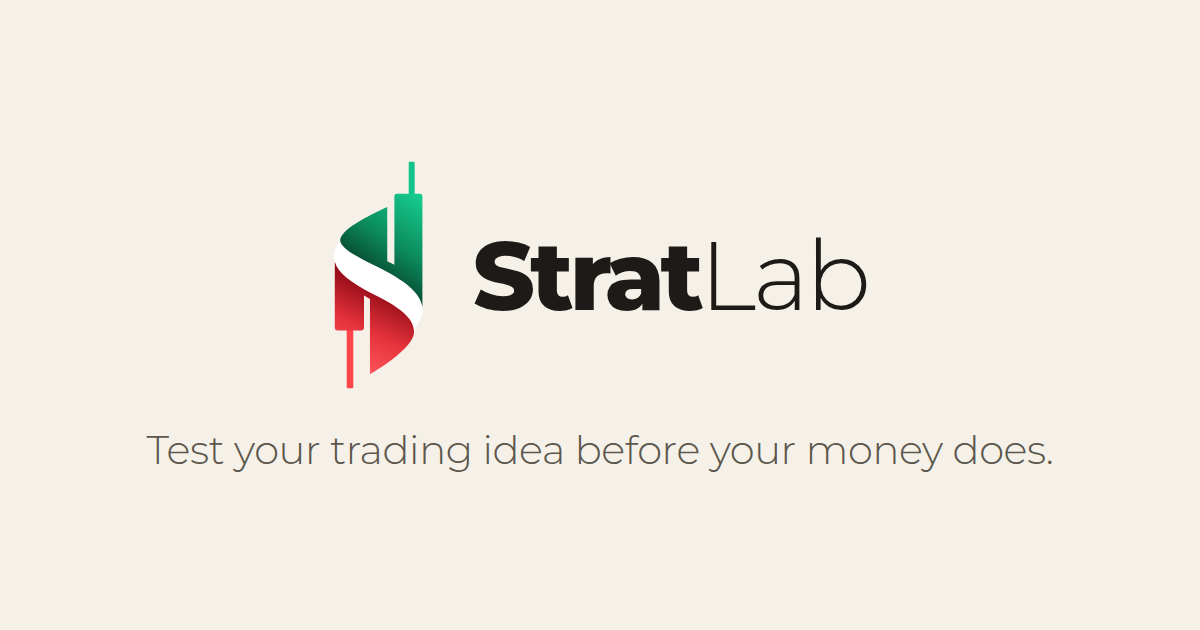
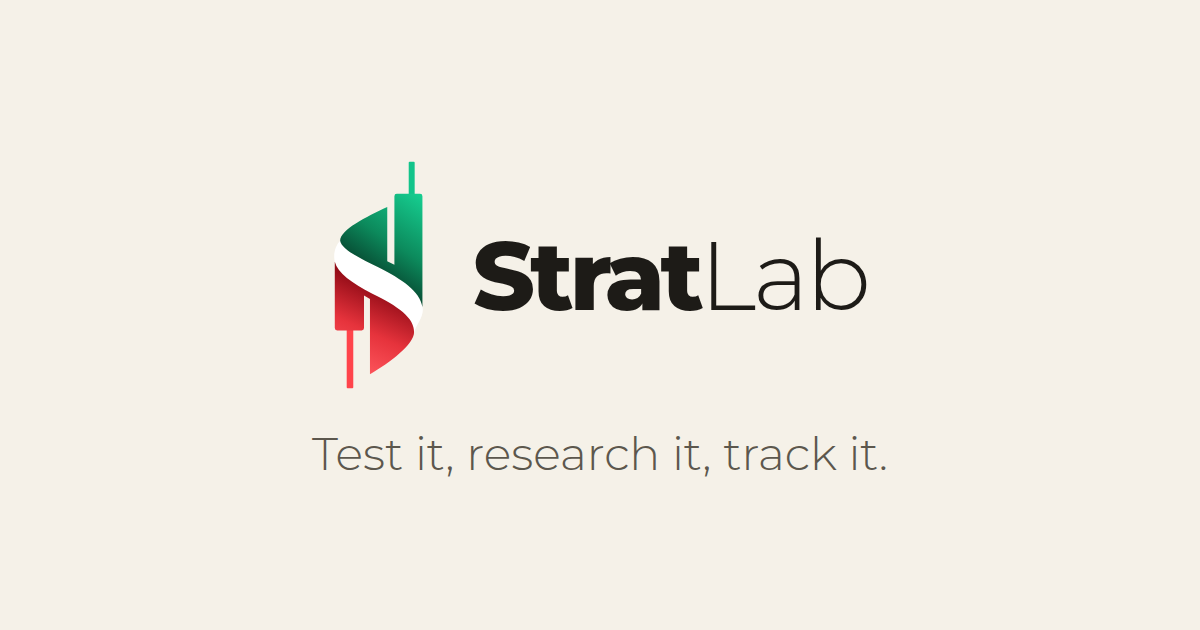
Config without notes, plans label, OG image tagline, tests for the visitor pages
Claude-Session: https://claude.ai/code/session_01QCGeNSveSSmNFs12Q4F29N

Changed region(s): [[0.1233, 0.6937, 0.8633, 0.754]]

diff --git a/stratlab/frontend/src/pages/PlansPage.tsx b/stratlab/frontend/src/pages/PlansPage.tsx
@@ -10,7 +10,7 @@ import { PromoCountdown } from "../components/PromoCountdown";
 import { PlanInterestButton } from "../components/PlanInterest";
 import { track } from "../lib/analytics";
 import { EVERYONE, FEATURES, FLAGS, LIMITS, NUMBERS, PRICE, WHO, type Limits, type PlanId } from "../lib/plans";
-import { canBuy, finePrint, pricingIntro } from "../lib/offer";
+import { canBuy, finePrint, pricingIntro, YEARLY_LABEL, yearlySaving } from "../lib/offer";
 
 /** Every limit and feature side by side, from the server's plans when signed in. */
 function Compare({ plans }: { plans?: Record<string, Partial<Limits>> }) {
@@ -72,6 +72,14 @@ export function PlansPage() {
     // the admin table's price ($8 and $20 for dollars); "Charged as ₹…" under it while that currency is charged in rupees
     return { shown: money(row, local, currency), charged: chargedIn === "INR" ? money(inr, rupees(p, per), "INR") : null, inr: false };
   };
+  /** What a year saves against twelve months, in the price's own currency (Pro's year is ₹9 over ten months, so each card says its own number). */
+  const savingOf = (p: "basic" | "pro") => {
+    const foreign = !!row && currency !== "INR";
+    const month = foreign ? (row as unknown as Record<string, number>)[p] : rupees(p, "month");
+    const year = foreign ? (row as unknown as Record<string, number>)[`${p}_year`] : rupees(p, "year");
+    const save = yearlySaving(month, year);
+    return save == null ? null : money(foreign ? row : inr, save, foreign ? currency : "INR");
+  };
   const anyRupees = currency !== "INR" && !!row && (period === "year" ? row.yearly_charged_in : row.charged_in) === "INR";
 
   const subscribe = async (plan: "basic" | "pro") => {
@@ -122,7 +130,7 @@ export function PlansPage() {
           {billing && yearlyOk && (
             <FieldGroup label="Billed">
               <Seg label="Billing period" value={yearly ? "year" : "month"} onChange={(v) => setYearly(v === "year")}
-                options={[{ value: "month", label: "Monthly" }, { value: "year", label: "Yearly · 2 months free" }]} />
+                options={[{ value: "month", label: "Monthly" }, { value: "year", label: YEARLY_LABEL }]} />
             </FieldGroup>
           )}
         </FormGrid>
@@ -141,6 +149,7 @@ export function PlansPage() {
               <div className="k-stack tight">
                 <div className="k-plan-price">{price.shown}<span> / {period}</span></div>
                 {price.inr && <span className="k-note">incl. GST</span>}
+                {period === "year" && p !== "free" && savingOf(p) && <span className="k-note">Saves {savingOf(p)} a year against paying monthly</span>}
                 {price.charged && <span className="k-note">{billing ? `Charged as ${price.charged} incl. GST / ${period}` : `${price.charged} a ${period} in India, incl. GST`}</span>}
               </div>
               <ul className="k-plan-list">

diff --git a/stratlab/frontend/public/config.js b/stratlab/frontend/public/config.js
@@ -1,17 +1,11 @@
-// The anon/publishable key is safe to expose; never put the service_role key here.
 window.STRATLAB_CONFIG = {
   API_BASE: "https://stratlab-production-ca25.up.railway.app",
   SUPABASE_URL: "https://enxrxhikzzfualjzqibf.supabase.co",
-  // SENTRY_DSN: "https://…@….ingest.sentry.io/…",   // optional: browser error alerts
   SUPABASE_ANON_KEY: "sb_publishable_31v3Fc59LUCl_aMZpyulbA_SXtDV4cs",
-  // Usage analytics (optional): PostHog's "Project API key" (phc_…, public by design). Off while empty: nothing loads.
-  // The project is on PostHog's US cloud; the CSP in vercel.json allows that host.
   POSTHOG_KEY: "phc_yjniCAedaF52gysc4635oJtJk6BVSbLASMqVUqjUrMCH",
   POSTHOG_HOST: "https://us.i.posthog.com",
-  // Shown on the Terms, Privacy, Refunds and Contact pages (Razorpay checks these before going live).
-  // Add BUSINESS_ADDRESS: "Street, City, State PIN, India" if you want an address listed.
   BUSINESS_NAME: "StratLab",
-  CONTACT_EMAIL: "support@stratlab.studio",   // contact and help
-  BILLING_EMAIL: "billing@stratlab.studio",   // payments, invoices and refunds
-  PRIVACY_EMAIL: "privacy@stratlab.studio",   // privacy requests and grievances (DPDP Act)
+  CONTACT_EMAIL: "support@stratlab.studio",
+  BILLING_EMAIL: "billing@stratlab.studio",
+  PRIVACY_EMAIL: "privacy@stratlab.studio",
 };

diff --git a/stratlab/frontend/src/components/Research.tsx b/stratlab/frontend/src/components/Research.tsx
@@ -447,8 +447,8 @@ export function AIRead({ region, symbol, onTest }: { region: Region; symbol: str
               {r.ideas.length > 0 && (
                 <div className="k-inset">
                   <div className="k-stack">
-                    <b className="k-sub">Ideas to test on {symbol}</b>
-                    <span className="k-small k-muted">Pick one and StratLab will test it on years of real prices, after costs.</span>
+                    <b className="k-sub">Rule templates to test on {symbol}</b>
+                    <span className="k-small k-muted">Each is a test setup, not a suggestion. Pick one and StratLab shows how it would have done on years of real prices, after costs.</span>
                   </div>
                   <div className="inv-ideas">
                     {r.ideas.map((i) => (

diff --git a/stratlab/frontend/src/pages/Login.tsx b/stratlab/frontend/src/pages/Login.tsx
@@ -9,6 +9,7 @@ import { FAQ } from "../content/faq";
 import { Google } from "../components/Icons";
 import { LegalLinks } from "../components/LegalLinks";
 import { Logo } from "../components/Logo";
+import { SkipLink } from "../components/SkipLink";
 import { Seg } from "../components/kit/Seg";
 import { Dialog } from "../components/kit/Dialog";
 import { publicGet } from "../lib/http";
@@ -223,7 +224,7 @@ export function Login({ section = null, panel }: { section?: string | null; pane
 
   return (
     <div className="lp">
-      <a className="skip-link" href="#main">Skip to main content</a>
+      <SkipLink />
       <header className="lp-nav">
         <a href="#top" className="brand" aria-label="StratLab home"><Logo size={46} /></a>
         <nav aria-label="Sections">

diff --git a/stratlab/frontend/src/styles.css b/stratlab/frontend/src/styles.css
@@ -1881,9 +1881,6 @@ a.k-health-i:focus-visible { outline: 2px solid var(--blue); outline-offset: 2px
 .k-card[tabindex="-1"]:focus { outline: none; }
 
 /* ---------- round 5 (a visitor's review): skip link, the landing's demo, plans while they load, phone menu ---------- */
-.skip-link { position: absolute; left: var(--s2); top: -120px; z-index: 100; padding: var(--s2) var(--s4); border-radius: var(--r-ctl); background: var(--ink); color: var(--on-ink);
-  font-weight: 600; text-decoration: none; }
-.skip-link:focus { top: var(--s2); }
 #main:focus { outline: none; }
 .legal-head { position: relative; }
 

diff --git a/stratlab/frontend/src/components/SkipLink.tsx b/stratlab/frontend/src/components/SkipLink.tsx
@@ -1,6 +1,6 @@
 /** The first stop for the keyboard: jumps past the header to the page's `main` (give it id="main"). Only visible when focused. */
 export function SkipLink({ to = "main" }: { to?: string }) {
-  return <a className="skip-link" href={`#${to}`} onClick={(e) => {
+  return <a className="skip-link sr-only" href={`#${to}`} onClick={(e) => {
     const el = document.getElementById(to);
     if (el) { e.preventDefault(); el.focus(); el.scrollIntoView(); }
   }}>Skip to main content</a>;

diff --git a/stratlab/frontend/src/lib/analytics.ts b/stratlab/frontend/src/lib/analytics.ts
@@ -72,7 +72,7 @@ export function analyticsDashboard(): string | null {
 }
 
 /** The browser asks not to be tracked (Do Not Track, or Global Privacy Control). */
-function doNotTrack(): boolean {
+export function doNotTrack(): boolean {
   if (typeof navigator === "undefined") return false;
   const n = navigator as Navigator & { msDoNotTrack?: string; globalPrivacyControl?: boolean };
   const w = typeof window === "undefined" ? undefined : (window as Window & { doNotTrack?: string });

diff --git a/stratlab/README.md b/stratlab/README.md
@@ -85,7 +85,7 @@ Leave the Razorpay settings empty and the Plans page shows the paid plans as "Co
    - `/refunds` (cancellation, refunds and delivery)
    - `/contact`
 
-   The business name and contact email are set in `frontend/public/config.js` (`BUSINESS_NAME`, `CONTACT_EMAIL`; add `BUSINESS_ADDRESS` if you want one listed). Read the four pages once and adjust the refund terms if you want a different policy.
+   The business name and contact email are set in `frontend/public/config.js` (`BUSINESS_NAME`, `CONTACT_EMAIL`; add `BUSINESS_ADDRESS` and `BUSINESS_GSTIN` to list them on the Contact page). Read the four pages once and adjust the refund terms if you want a different policy.
 2. **Switch to Live mode** in the dashboard, then repeat the Test Mode setup there: live plans cannot see test plans.
    - Create the plans again: Basic ₹699 and Pro ₹1,999 monthly, plus ₹6,999 and ₹19,999 yearly if you want it. The amounts must match `backend/app/plans.py`, because the Plans page shows those prices while Razorpay charges the plan's own amount.
    - Generate live API keys.

diff --git a/README.md b/README.md
@@ -283,7 +283,7 @@ Set on the backend (Railway, or `stratlab/backend/.env`). Names and purposes onl
 | `HEAVY_SLOTS` | Heavy requests (backtests, scans, document reads) run at once (default 2) |
 
 The frontend's `public/config.js` sets `API_BASE`, `SUPABASE_URL`, `SUPABASE_ANON_KEY` (public), and optionally
-`SENTRY_DSN`, `POSTHOG_KEY`, `POSTHOG_HOST`, `BUSINESS_NAME`, `CONTACT_EMAIL` and `BUSINESS_ADDRESS`.
+`SENTRY_DSN`, `POSTHOG_KEY`, `POSTHOG_HOST`, `BUSINESS_NAME`, `CONTACT_EMAIL`, `BILLING_EMAIL`, `PRIVACY_EMAIL`, `BUSINESS_ADDRESS` and `BUSINESS_GSTIN` (the last two are listed on the Contact page when set). The file is served to every visitor as it is, so keep comments and notes out of it (`unit/seo.test.mjs` checks).
 
 ## Tests
 
